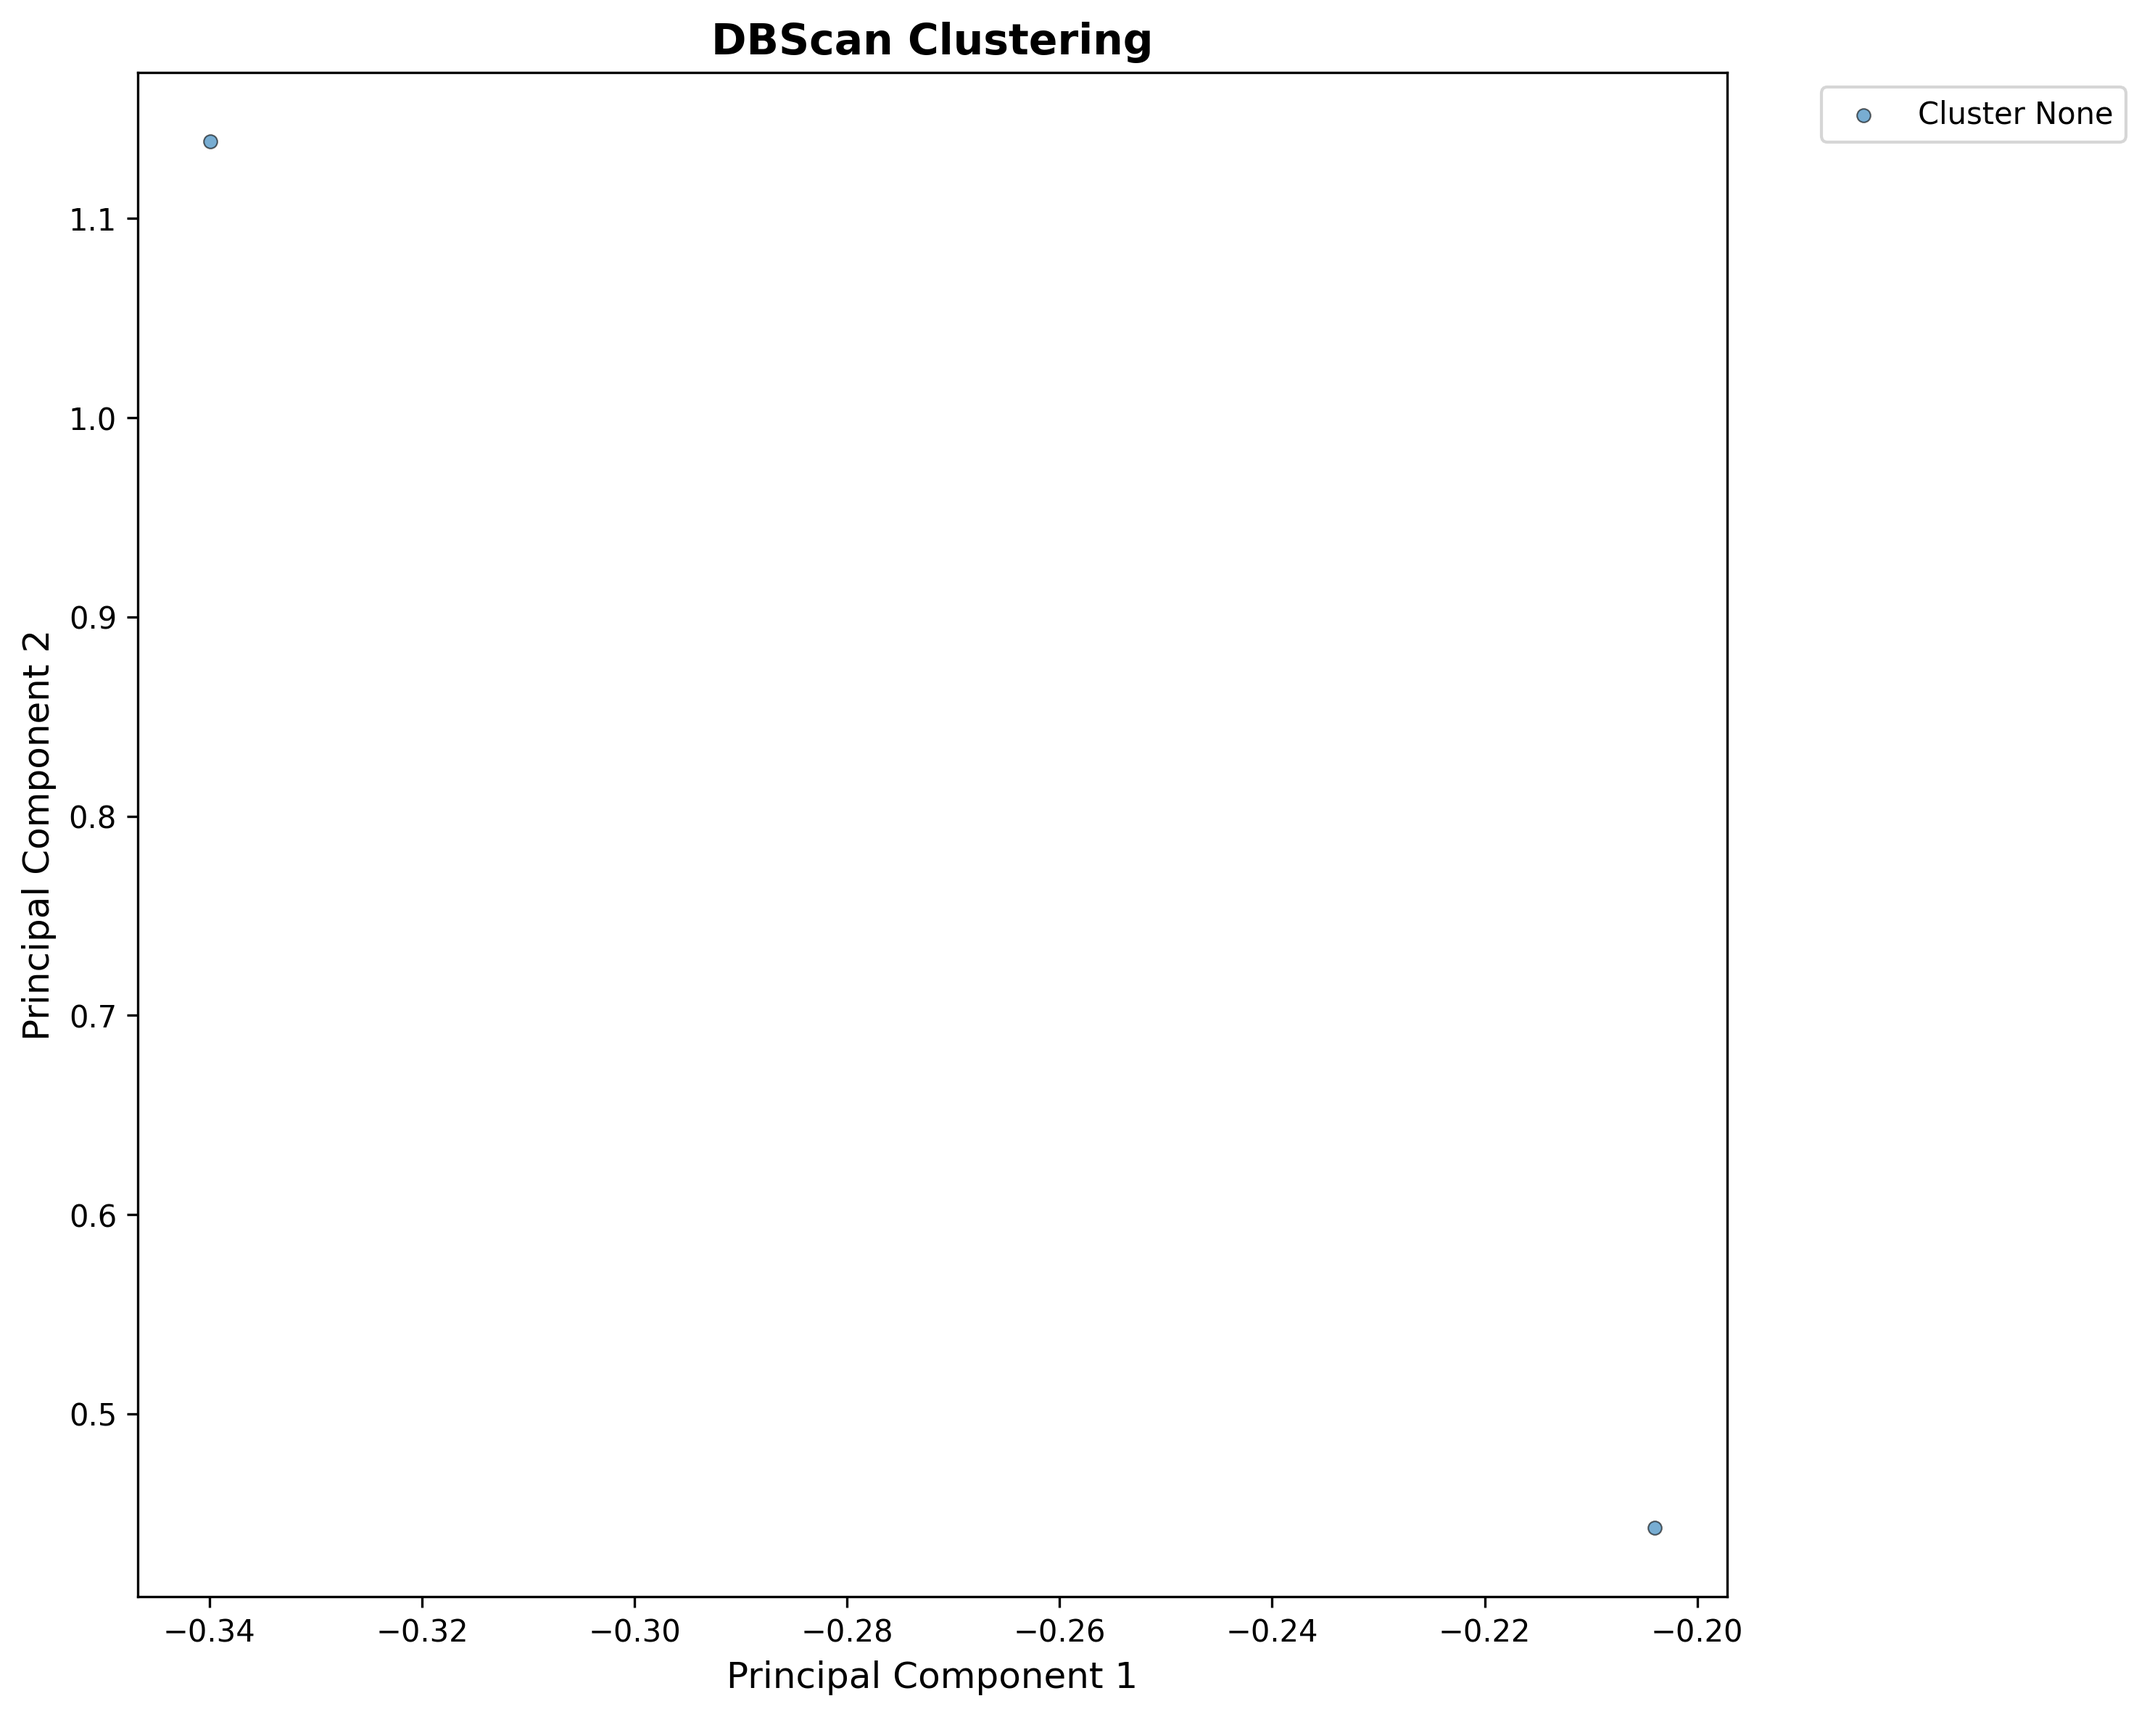
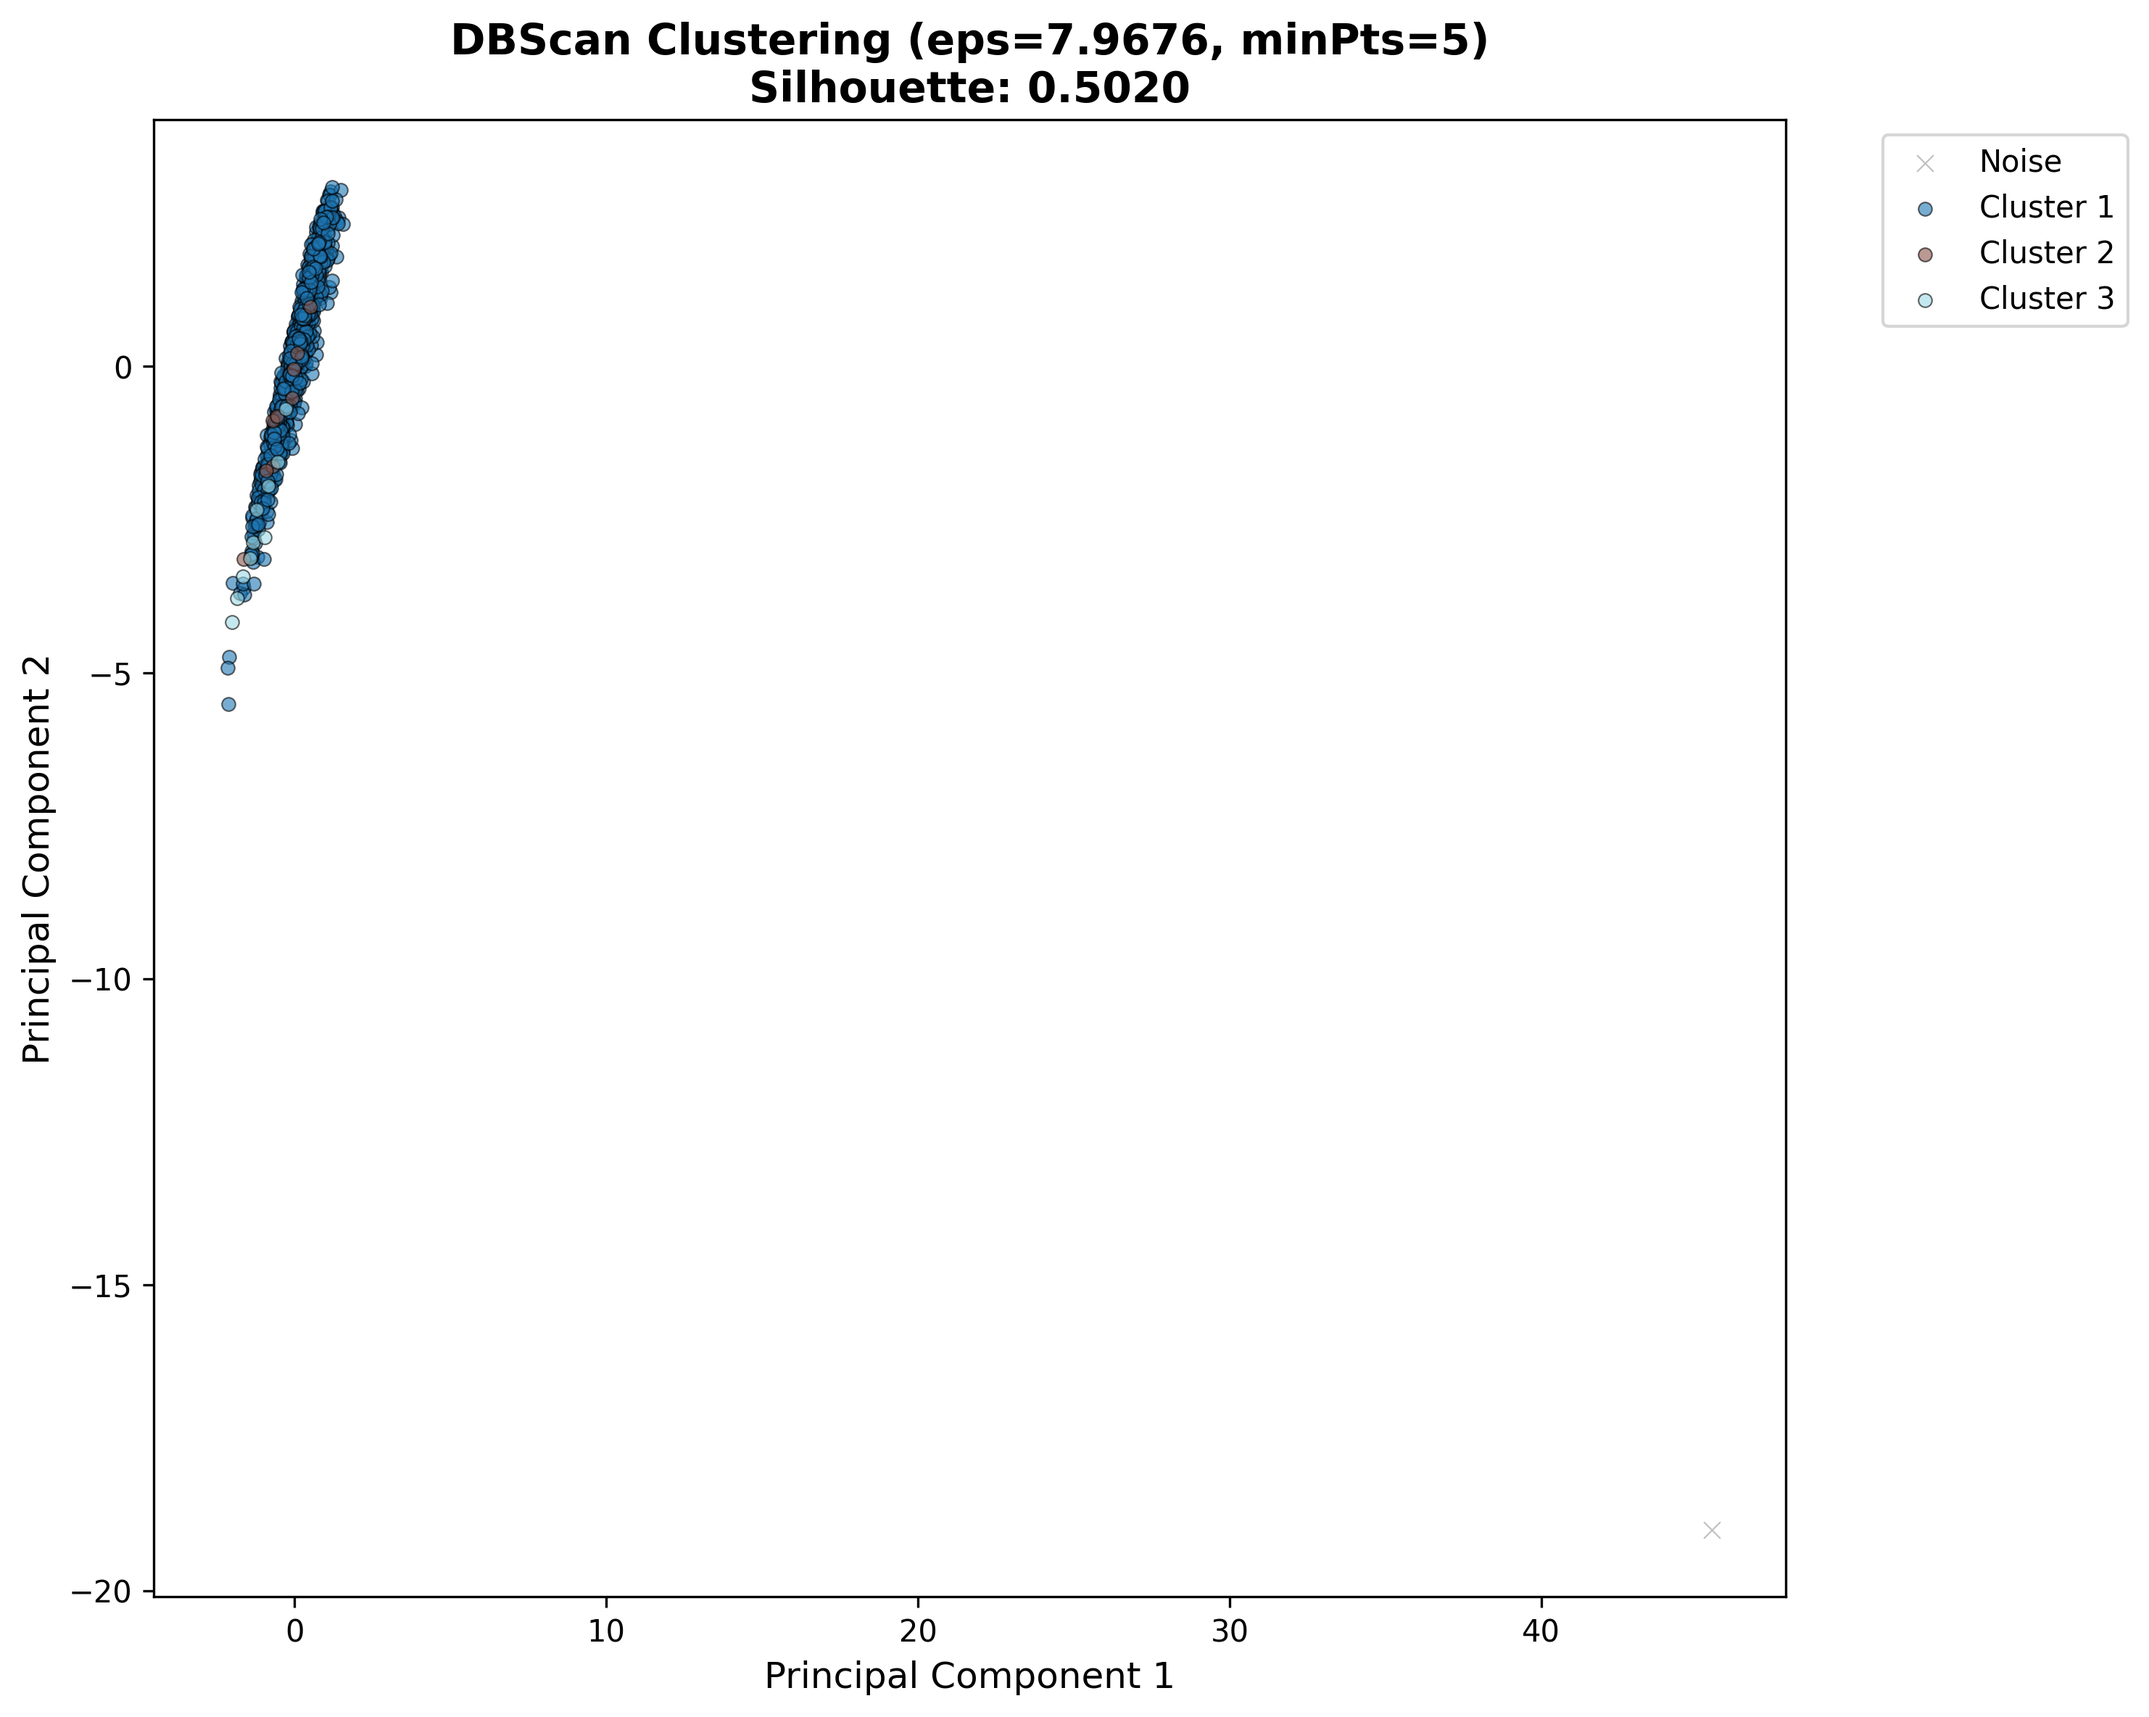
Update DBSCAN cluster analysis and visualizations

diff --git a/dbscan_cluster_analysis.py b/dbscan_cluster_analysis.py
@@ -15,6 +15,7 @@ import matplotlib
 from sklearn.preprocessing import LabelEncoder, StandardScaler
 from sklearn.decomposition import PCA
 from sklearn.metrics import silhouette_score
+from sklearn.neighbors import NearestNeighbors
 import argparse
 
 from dbscan_clustering import DBScan
@@ -110,13 +111,23 @@ def visualize_cluster(X_vis, clustering, title, save_path, silhouette_score = No
 
     if num_dims == 2: #2D Visualization
         plt.figure(figsize = (10, 8))
-        for i, cid in enumerate(unique_clusters):
+        
+        # Plot noise points first (if any)
+        if 0 in unique_clusters:
+            noise_mask = clustering == 0
+            plt.scatter(X_vis[noise_mask, 0], X_vis[noise_mask, 1],
+                        s = 30, alpha = 0.5, color = "gray", 
+                        marker = "x", linewidths = 0.5, label = "Noise")
+        
+        # Plot actual clusters (excluding noise)
+        cluster_ids = [cid for cid in unique_clusters if cid != 0]
+        for i, cid in enumerate(cluster_ids):
             mask = clustering == cid
-            c_value = i / max(num_clusters - 1, 1) if num_clusters > 1 else 0
+            c_value = i / max(len(cluster_ids) - 1, 1) if len(cluster_ids) > 1 else 0
             color = cmap(c_value)
             plt.scatter(X_vis[mask, 0], X_vis[mask, 1],
                         s = 20, alpha = 0.6, color = color, edgecolors = "black",
-                        linewidths = 0.5, label = f"Cluster {cid}")
+                        linewidths = 0.5, label = f"Cluster {int(cid)}")
 
         # Add sihouette score to title 
         if silhouette_score is not None:
@@ -135,9 +146,18 @@ def visualize_cluster(X_vis, clustering, title, save_path, silhouette_score = No
         fig = plt.figure(figsize = (12, 9))
         ax = fig.add_subplot(111, projection = '3d')
 
-        for i, cid in enumerate(unique_clusters):
+        # Plot noise points first (if any)
+        if 0 in unique_clusters:
+            noise_mask = clustering == 0
+            ax.scatter(X_vis[noise_mask, 0], X_vis[noise_mask, 1], X_vis[noise_mask, 2],
+                       s = 30, alpha = 0.5, color = "gray",
+                       marker = "x", linewidths = 0.5, label = "Noise")
+        
+        # Plot actual clusters (excluding noise)
+        cluster_ids = [cid for cid in unique_clusters if cid != 0]
+        for i, cid in enumerate(cluster_ids):
             mask = clustering == cid
-            c_value = i / max(num_clusters - 1, 1) if num_clusters > 1 else 0
+            c_value = i / max(len(cluster_ids) - 1, 1) if len(cluster_ids) > 1 else 0
             color = cmap(c_value)
             ax.scatter(X_vis[mask, 0], X_vis[mask, 1], X_vis[mask, 2],
                        s = 20, alpha = 0.6, color = color, edgecolors = "black",
@@ -177,61 +197,139 @@ def main():
     # Apply PCA to reduce dimensions of data
     X_pca = apply_pca(X, args.pca_components)
 
+    # Find appropriate epsilon using k-distance graph
+    print("\nFinding appropriate epsilon using k-distance graph...")
+    minPts = 5
+    neighbors = NearestNeighbors(n_neighbors=minPts)
+    neighbors_fit = neighbors.fit(X_pca)
+    distances, indices = neighbors_fit.kneighbors(X_pca)
+    
+    # Sort distances to k-th nearest neighbor
+    k_distances = np.sort(distances[:, minPts-1])
+    
+    # Use percentiles to suggest epsilon values
+    eps_25 = np.percentile(k_distances, 25)
+    eps_50 = np.percentile(k_distances, 50)
+    eps_75 = np.percentile(k_distances, 75)
+    eps_90 = np.percentile(k_distances, 90)
+    
+    print(f"k-distance statistics (k={minPts}):")
+    print(f"  25th percentile: {eps_25:.4f}")
+    print(f"  50th percentile: {eps_50:.4f}")
+    print(f"  75th percentile: {eps_75:.4f}")
+    print(f"  90th percentile: {eps_90:.4f}")
+    
+    # Test multiple epsilon values around the suggested range
+    eps_values = [eps_25, eps_50, eps_75, eps_90, eps_90 * 1.5, eps_90 * 2.0]
+    
     silhouettes = []
+    eps_results = []
     best_score = -1
     best_clustering = None
+    best_eps = None
 
-    print("Cluster Analysis: Testing DBScan Clustering")
+    print("\nCluster Analysis: Testing DBScan Clustering with different epsilon values")
+    print("=" * 80)
 
-    # Performs DBScan on sample data points
-    db = DBScan(0.2, 5) # choice of epsilon and minimum points in neighbourhood
-    clustering = db.fit(X_pca)
+    for eps in eps_values:
+        db = DBScan(eps, minPts)
+        clustering = db.fit(X_pca)
+        
+        unique_labels = np.unique(clustering)
+        n_clusters = len(unique_labels[unique_labels != 0])
+        n_noise = np.sum(clustering == 0)
+        
+        # Get silhouette score (only if we have more than 1 cluster)
+        if n_clusters > 1:
+            # Filter to only non-noise points
+            mask = clustering != 0
+            if np.sum(mask) > 1:
+                # Check if all clusters have at least 2 points
+                valid_clusters = [l for l in unique_labels if l != 0 and np.sum(clustering == l) >= 2]
+                if len(valid_clusters) > 1:
+                    mask = np.isin(clustering, valid_clusters)
+                    sil = silhouette_score(X_pca[mask], clustering[mask])
+                else:
+                    sil = -1
+            else:
+                sil = -1
+        else:
+            sil = -1
+        
+        silhouettes.append(sil)
+        eps_results.append({'eps': eps, 'n_clusters': n_clusters, 'n_noise': n_noise, 'silhouette': sil})
+        
+        status = "✓" if n_clusters > 0 else "✗"
+        print(f"{status} eps={eps:6.4f}: {n_clusters:2d} clusters, {n_noise:4d} noise, silhouette={sil:7.4f}")
+        
+        if sil > best_score and n_clusters > 0:
+            best_score = sil
+            best_clustering = clustering.copy()
+            best_eps = eps
 
-    # Get silhouette score (only if we have more than 1 cluster and at least 2 samples per cluster)
-    unique_labels = np.unique(clustering)
-    if len(unique_labels) > 1 and all(np.sum(clustering == label) > 1 for label in unique_labels if label != 0):
-        sil = silhouette_score(X_pca, clustering)
-    else:
-        sil = -1
-        print("Warning: Cannot compute silhouette score - need at least 2 clusters with 2+ samples each")
-    silhouettes.append(sil)
-    print(f"Silhouette = {sil:.4f}")
+    print("=" * 80)
+    
+    # If no valid clustering found, use the one with most clusters
+    if best_clustering is None:
+        print("\nWarning: No clustering with valid silhouette score found!")
+        print("Using clustering with most clusters...")
+        max_clusters_idx = max(range(len(eps_results)), key=lambda i: eps_results[i]['n_clusters'])
+        best_eps = eps_values[max_clusters_idx]
+        db = DBScan(best_eps, minPts)
+        best_clustering = db.fit(X_pca)
+        best_score = silhouettes[max_clusters_idx]
+    
+    unique_labels = np.unique(best_clustering)
+    n_clusters = len(unique_labels[unique_labels != 0])
+    n_noise = np.sum(best_clustering == 0)
+    
+    print(f"\nBest result: eps={best_eps:.4f}")
+    print(f"  Clusters: {n_clusters}")
+    print(f"  Noise points: {n_noise}")
+    if best_score > -1:
+        print(f"  Silhouette score: {best_score:.4f}")
 
-    if sil > best_score:
-        best_score = sil
-        best_clustering = clustering.copy()
 
-    # Print results summary
-    print("\nSummary of Results:")
-    for idx, sil in enumerate(silhouettes):
-        marker = " <-- Best" if idx == 0 else ""
-        print(f"Silhouette = {sil:.4f}{marker}")
-
-
-    print("Generating visualizations...")
+    print("\nGenerating visualizations...")
 
     print("Generating Silhouette Score Plot...")
-    plt.figure(figsize = (10, 6))
-    plt.plot(silhouettes, "o-", color = "steelblue")
-    plt.title("DBScan Clustering Silhouette Scores")
-    plt.xlabel("Epsilon Values")
-    plt.ylabel("Silhouette Coefficient")
+    plt.figure(figsize = (12, 6))
+    plt.subplot(1, 2, 1)
+    plt.plot(k_distances, linewidth=1)
+    plt.axhline(y=best_eps, color='red', linestyle='--', linewidth=2, label=f'Selected ε={best_eps:.4f}')
+    plt.title("k-Distance Graph", fontsize=12, fontweight='bold')
+    plt.xlabel("Points sorted by distance", fontsize=10)
+    plt.ylabel(f"Distance to {minPts}-th nearest neighbor", fontsize=10)
+    plt.legend()
+    plt.grid(alpha=0.3)
+    
+    plt.subplot(1, 2, 2)
+    eps_labels = [f"{eps:.3f}" for eps in eps_values]
+    plt.plot(range(len(eps_values)), silhouettes, "o-", color = "steelblue", linewidth=2, markersize=8)
+    if best_eps is not None:
+        best_idx = eps_values.index(best_eps)
+        plt.axvline(x=best_idx, color='red', linestyle='--', linewidth=2, alpha=0.7)
+    plt.xticks(range(len(eps_values)), eps_labels, rotation=45)
+    plt.title("Silhouette Scores vs Epsilon", fontsize=12, fontweight='bold')
+    plt.xlabel("Epsilon (ε) Value", fontsize=10)
+    plt.ylabel("Silhouette Coefficient", fontsize=10)
     plt.grid(alpha = 0.3)
+    
+    plt.tight_layout()
     plt.savefig("dbscan_silhouette_scores.png", dpi = 300, bbox_inches = "tight")
     plt.close()
-    print("\nSaved as dbscan_silhouette_scores.png.")
+    print("Saved as dbscan_silhouette_scores.png.")
 
     # Reduce dataset for 2D and 3D Visualization 
     print(f"\nReducing to {args.vis_dims}D for visualization...")
     X_vis = PCA(n_components=args.vis_dims).fit_transform(X)
 
     print(f"\nVisualizing clusters...")
-    vis_title = f"DBScan Clustering"
+    vis_title = f"DBScan Clustering (eps={best_eps:.4f}, minPts={minPts})"
     vis_file = f"dbscan.png"
 
     # Produce scatter plot for clustering
-    # visualize_cluster(X_vis, best_clustering, vis_title, vis_file, silhouette=best_score)
-    visualize_cluster(X_vis, best_clustering, vis_title, vis_file)
+    visualize_cluster(X_vis, best_clustering, vis_title, vis_file, silhouette_score=best_score if best_score > -1 else None)
     print(f"Saved scatterplot as {vis_file}.")
     print("DBScan clustering analysis complete!")
     print("\n Files saved:")
